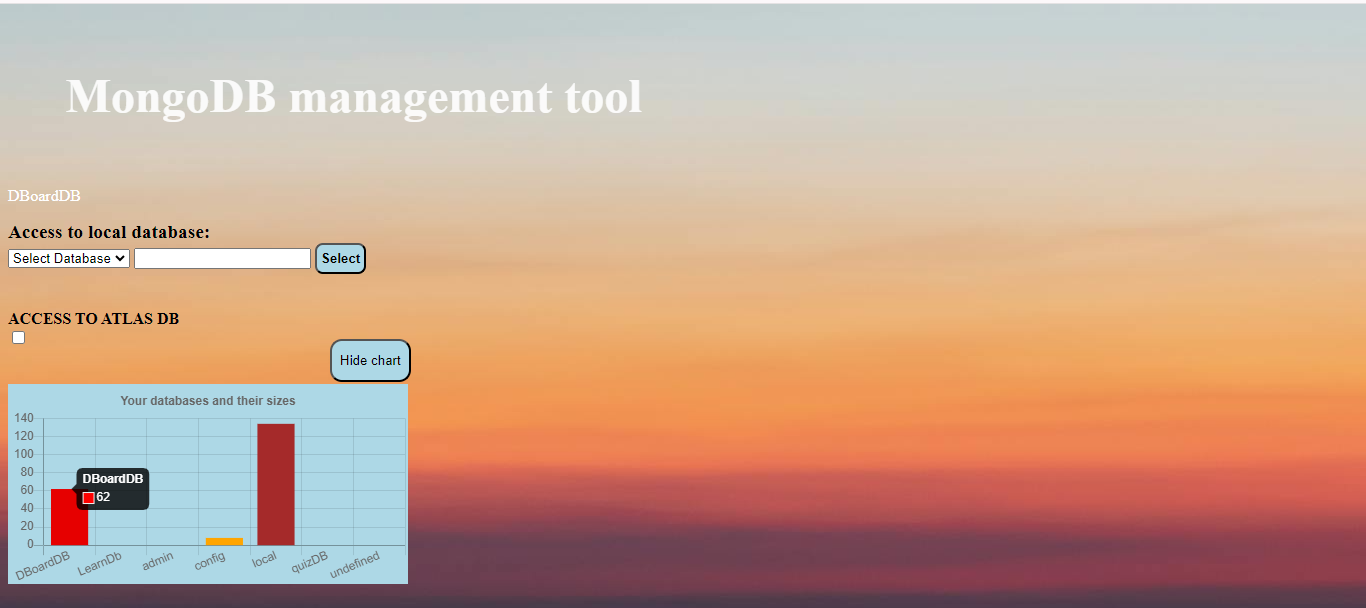
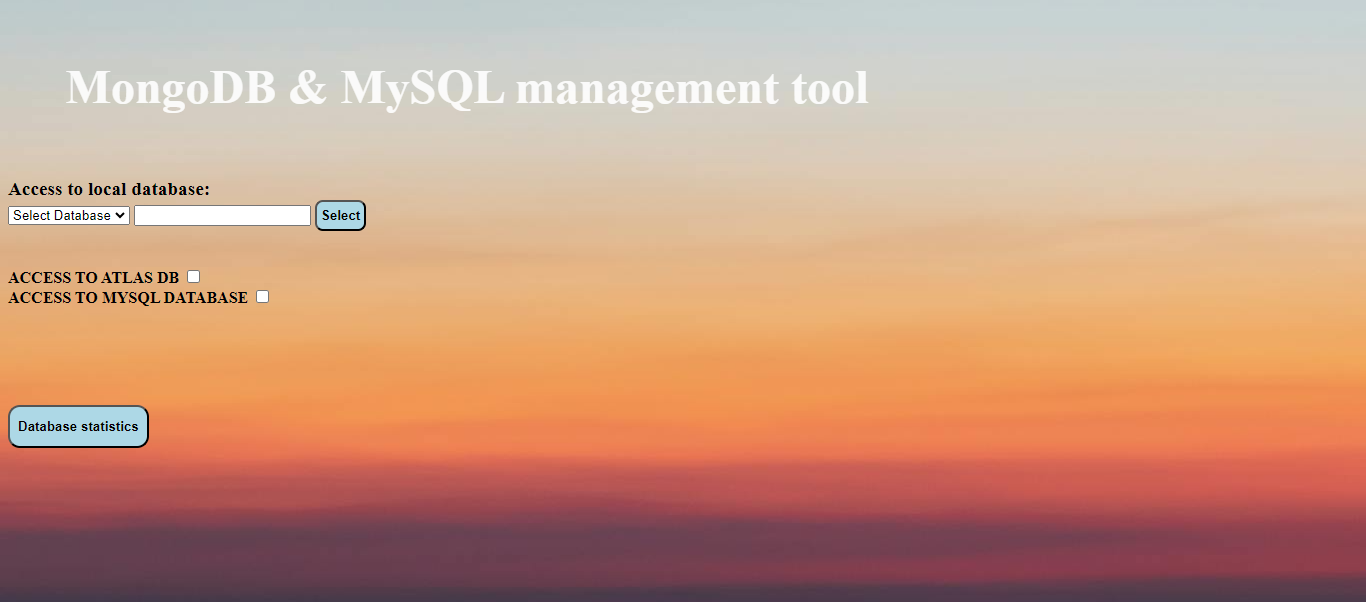
mysql feature added

diff --git a/templates/index.html b/templates/index.html
@@ -15,7 +15,7 @@
 
 <body class="indexbody">
    
-    <h4 id="apiName">MongoDB management tool</h4>
+    <h4 id="apiName">MongoDB & MySQL management tool</h4>
     <!--Flask api animaatio näytetään näin myös selectcol.html sivulla
     {% block content %}
     {% endblock %}-->
@@ -212,17 +212,32 @@ thirdMax()
     </form> 
     <br><br>
     <label for="atlas" class="atlasLbl" >Access to Atlas DB</label>
+    <input type="checkbox" class="atlasCB" id="atlas" name="atlas" onclick="createAtlas()">
     
     <form action= "{{ url_for('cloudConnection.readAtlasDB')}}" method="post">
     <div class="atlasForm" id="atlasForm">
 
     </div>
-    <input type="checkbox" class="atlasCB" id="atlas" name="atlas" onclick="createAtlas()">
+    
     
 </form>
-
-    
     </div>
+    <label for="mysql" class="mysqlLbl">Access to MySQL Database</label>
+    <input type="checkbox" class="mysqlCB" id="mysql" name="mysql" onclick="createMysql()">
+    
+    <br>
+    <div hidden id="mysqlForm">
+        <select name="sqlDbs" id="sqlDbs">
+            <option value="default" selected>Select Database</option>
+
+            {% for s in sqls %}
+            <option value="">{{s}}</option>
+            {% endfor %}
+            </select>
+
+    </div>
+
+
 
 
     <button id="statsBtn" class="statsBtn" onclick="stats()">Database statistics</button>

diff --git a/static/DynamicCreate.js b/static/DynamicCreate.js
@@ -15,6 +15,10 @@ selected.setAttribute('id','selectionForDB')
 select.textContent='Select'
 DBname.placeholder='Database name'
 
+var mysqlPath = document.createElement("INPUT")
+var mysqlBtn = document.createElement("BUTTON")
+mysqlBtn.textContent="Show"
+
 
 DBname.name='dbname'
 //collectionName.name='collection'
@@ -45,6 +49,17 @@ function createAtlas() {
   else if(atlasCB.checked==false){
     document.getElementById("atlasForm").hidden=true
   }
+}
+
+function createMysql() {
+  var mysqlCB=document.getElementById("mysql")
+  if (mysqlCB.checked==true) {
+    document.getElementById("mysqlForm").hidden=false
+   // document.getElementById("mysqlForm").appendChild(mysqlPath)
+   // document.getElementById("mysqlForm").appendChild(mysqlBtn)
+
+  }
+
 }
 
 

diff --git a/static/css/styles.css b/static/css/styles.css
@@ -83,3 +83,9 @@ white-space: nowrap;
     background-image:  url('/static/images/flaskapiBG.jpg');
 }
 
+.mysqlLbl {
+    color: black;
+    text-transform: uppercase;
+    font-weight: bold;
+}
+

diff --git a/app.py b/app.py
@@ -8,18 +8,40 @@ import pymongo
 from pymongo.server_api import ServerApi
 import os
 from dotenv import load_dotenv
-
+import mysql.connector
 from cruds import cruds
 from apiCalls import apiCalls
 from cloudConnection import cloudConnection
+from mysqlScripts import mysqlScripts
+from mysqlScripts import showSQLDataBases
 import urllib
 app = Flask(__name__)
 app.register_blueprint(cruds,url_prefix='')
 app.register_blueprint(apiCalls,url_prefix='')
 app.register_blueprint(cloudConnection,url_prefix='')
+
 load_dotenv("c:/codes/Python/FlaskApi/.env")
 showdata = False
 connect=False
+
+def showSQLDataBases():
+    sqlDataBases = []
+
+    mydb = mysql.connector.connect(
+       
+        host="localhost",
+        user="root",
+        password="Root512!",
+)
+    cursor = mydb.cursor()
+    databases = ("show databases")
+    cursor.execute(databases)
+    for (databases) in cursor:
+         print (databases[0])
+         sqlDataBases.append(databases[0])
+
+    return sqlDataBases
+
 
 def listAtlasDataBases():
     
@@ -41,6 +63,8 @@ def listAtlasDataBases():
 @app.route("/",methods=['GET','POST'])
 
 def showIndex():
+     #toisen moduulin funktiota voi käyttää näin, kunhan se tuodaan import lauseella ja route on kunnossa.
+     sqls=showSQLDataBases()
      listAtlasDataBases()
      dbsAtlas=listAtlasDataBases()
    
@@ -89,7 +113,7 @@ def showIndex():
         statsNums[j] = int(statsNums[j])    
           
      print(amountOfdb)
-     return render_template('index.html',dbsList=dbsList,stats=statsNames,statsNums=statsNums,allStats=allStats,dbsAtlas=dbsAtlas,amountOfdb=amountOfdb)
+     return render_template('index.html',dbsList=dbsList,stats=statsNames,statsNums=statsNums,allStats=allStats,dbsAtlas=dbsAtlas,amountOfdb=amountOfdb,sqls=sqls)
 
 
 

diff --git a/mysqlScripts.py b/mysqlScripts.py
@@ -1,0 +1,24 @@
+from flask import Blueprint, render_template
+import mysql.connector
+
+mysqlScripts = Blueprint('mysqlScripts',__name__,static_folder='static',template_folder='templates')
+
+
+#@mysqlScripts.route("/",methods=['POST','GET'])
+def showSQLDataBases():
+    sqlDataBases = []
+
+    mydb = mysql.connector.connect(
+       
+        host="localhost",
+        user="root",
+        password="Root512!",
+)
+    cursor = mydb.cursor()
+    databases = ("show databases")
+    cursor.execute(databases)
+    for (databases) in cursor:
+         print (databases[0])
+         sqlDataBases.append(databases[0])
+
+    return render_template('index.html',sqlDataBases=sqlDataBases)

diff --git a/README.md b/README.md
@@ -1,7 +1,7 @@
-Project keywords: Python Flask, API, JavaScript, Jquery, NoSQL, HTML, MongoDB Cloud Atlas
+Project keywords: Python Flask, API, JavaScript, Jquery, NoSQL, SQL HTML, MongoDB Cloud Atlas
 
-Python Flask REST API with JavaScript and MongoDB.
-The main idea is that you can access multiple mongoDB databases with a single program using api endpoints or an html interface. With the Html user interface, the user can access both local databases and MongoDB Atlas databases.
+Python Flask REST API with JavaScript and MongoDB & MySQL.
+The main idea is that you can access multiple mongoDB or MySQL databases with a single program using api endpoints or an html interface. With the Html user interface, the user can access both local databases and MongoDB Atlas databases.
 
 The username and password are stored in the .env environment file and retrieved with the os.getenv function.
 The .env file is in gitignore mode for security reasons
@@ -18,7 +18,7 @@ The view also uses customization, the font size is set to medium, the background
 
 Main features
 
-ACCESS TO LOCAL DATABASE USING HTML-UI & OTHER HTML-UI FEATURES.
+ACCESS TO LOCAL MongoDB DATABASE USING HTML-UI.
 
 The program can search for all mongodb databases and their collections on the computer using MongoDB's list_database_names method. After the search, the user can select them for use via the HTML interface.
 You can perform CRUD operations on the database you have selected. Selecting a database is easy, select a database from the html dropdown menu and click the Select button.
@@ -26,7 +26,11 @@ You can perform CRUD operations on the database you have selected. Selecting a d
 The connection between the mongo databases and the program is made using the Mongo URI. in this case the Mongo uri starts with mongodb://localhost:27017/(db)/(col).
 db and col are the parameters of the database name and the collection, the contents of which are obtained from the user's selections in the drop-down menu.
 
-LIMITING THE SEARCH 
+ACCESS TO LOCAL MySQL DATABASE USING HTML-UI
+
+All local mysql databases are fetched with the "show databases" command when the user clicks the "access mysql databases" dialog. the results (i.e. database names) are looped in a for loop and displayed in the html dropdown menu.
+
+LIMITING THE SEARCH IN MONGO DATABASES
 
 The user can limit the number of displayed search results by entering the number of displayed records in the input field named with the "number of records" placeholder.
 This feature is made using the PyMongo limit method. the limit method receives the values entered by the user as parameter.
